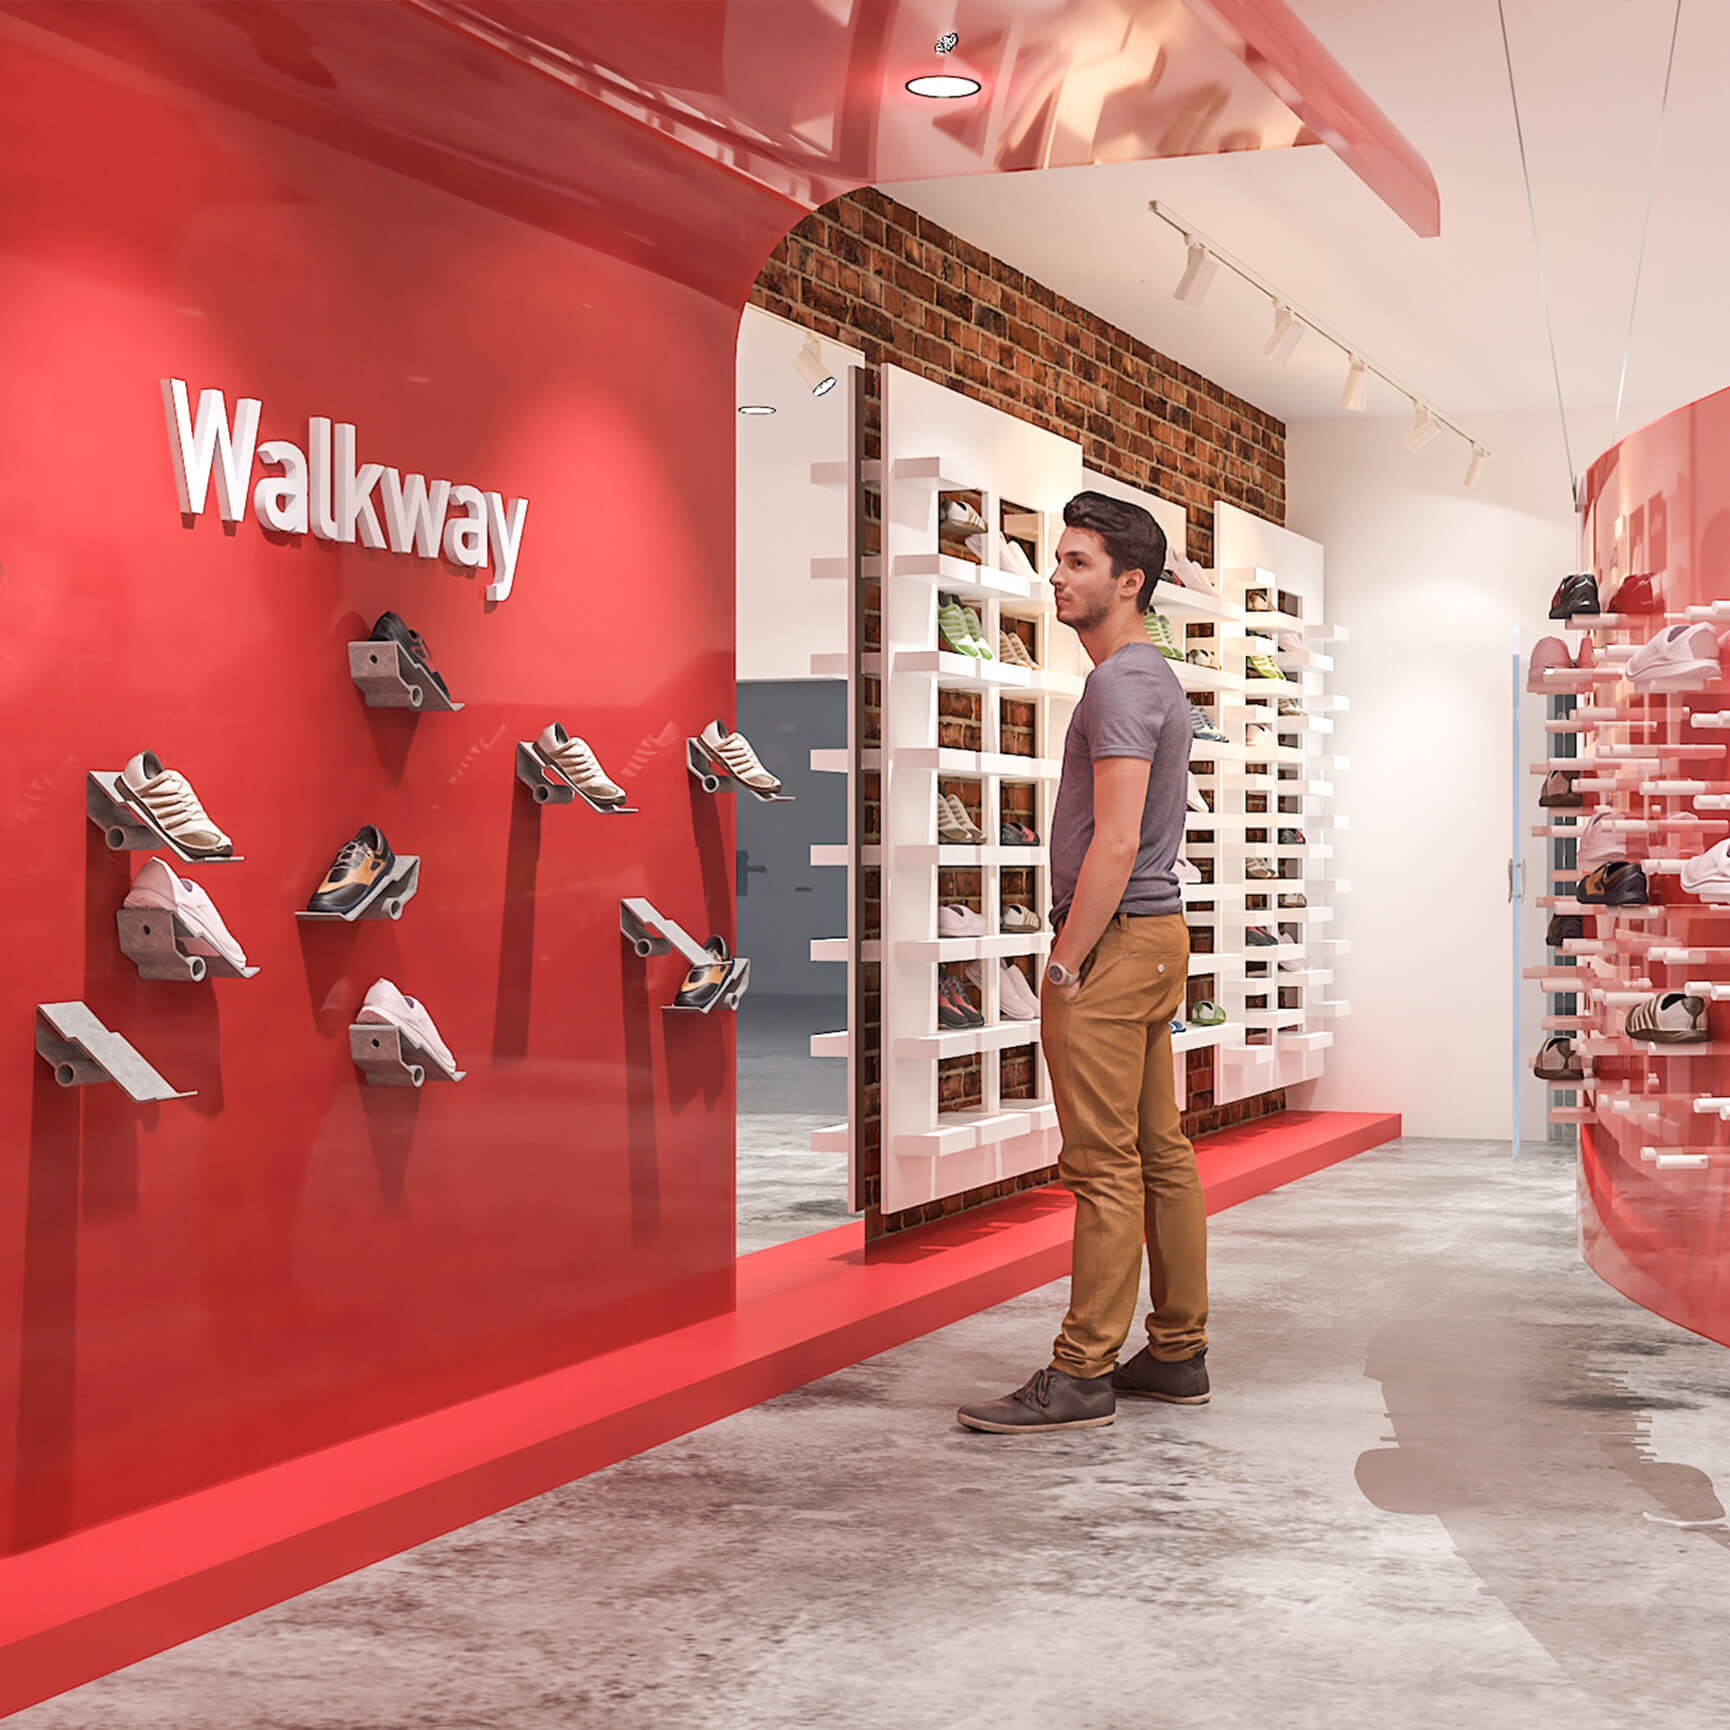
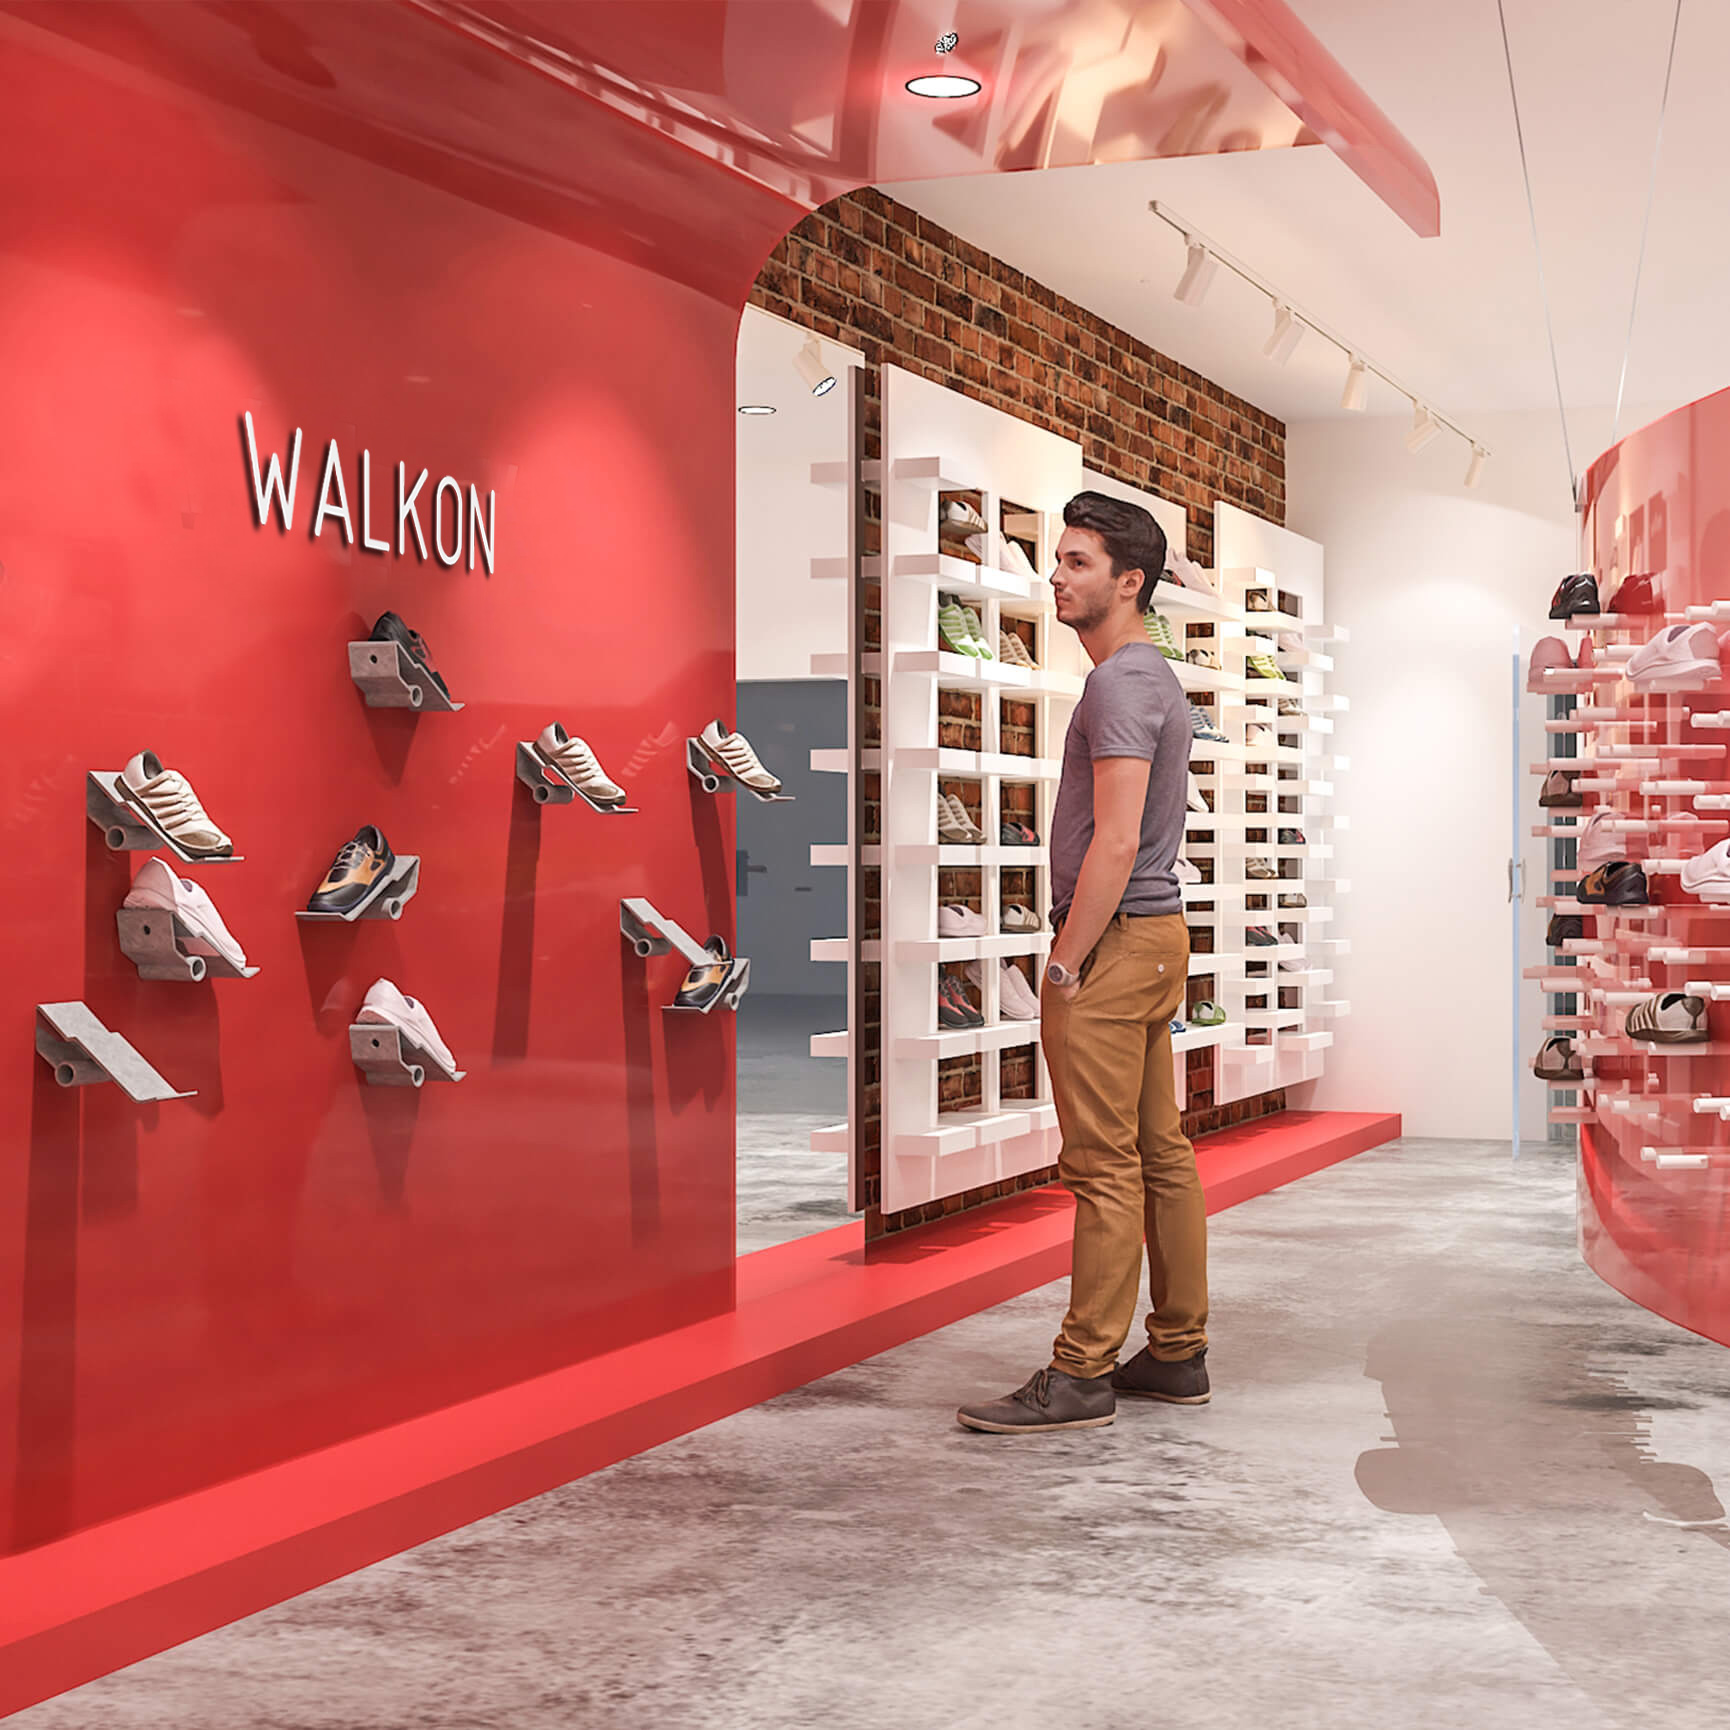
updated images

Changed region(s): [[0.0936, 0.1873, 0.3121, 0.3746]]

diff --git a/public/index.html b/public/index.html
@@ -2,14 +2,14 @@
 <html lang="en">
   <head>
     <meta charset="utf-8" />
-    <link rel="icon" href="%PUBLIC_URL%/favicon.ico" />
+    <link rel="icon" href="%PUBLIC_URL%/K_fevicon_32.jpg" />
     <meta name="viewport" content="width=device-width, initial-scale=1" />
     <meta name="theme-color" content="#000000" />
     <meta
       name="description"
       content="Web site created using create-react-app"
     />
-    <link rel="apple-touch-icon" href="%PUBLIC_URL%/logo192.png" />
+    <link rel="apple-touch-icon" href="%PUBLIC_URL%/K_fevicon_32.jpg" />
     <!--
       manifest.json provides metadata used when your web app is installed on a
       user's mobile device or desktop. See https://developers.google.com/web/fundamentals/web-app-manifest/
@@ -24,7 +24,7 @@
       work correctly both with client-side routing and a non-root public URL.
       Learn how to configure a non-root public URL by running `npm run build`.
     -->
-    <title>karankal.com/ best design studio in Bangalore</title>
+    <title>Karankal.com/ Best design studio in Bangalore</title>
   </head>
   <body>
     <noscript>You need to enable JavaScript to run this app.</noscript>

diff --git a/src/images/category/projects/walkway/images.js b/src/images/category/projects/walkway/images.js
@@ -24,7 +24,7 @@ export default {
     "Now, what's the idea behind the walkway?",
     "We all wear shoes outside right? Our time is spent commuting to work, or interacting with others, on the walkway. Many use this route, whether it is for boarding the metro train or dashing off to the office or tech park. Simply put, the walkway is a place where your & shoes feel at home & That's how the concept came about. Attachments area. "
   ],
-  projectName: 'Walkway',
+  projectName: 'Walkon',
   realProjectName: 'walkway',
   projectTypes: ['fixture', 'furniture', 'store design'],
   categoryTypes: ['retail']

diff --git a/src/components/home/StudioSlideshow.js b/src/components/home/StudioSlideshow.js
@@ -148,7 +148,7 @@ function StudioSlideshow() {
 						<div className='caption-background'></div>
 					</>
 				)}		
-				<span className='mouse-pointer'><img src={mouse} alt='mouse pointer' /></span>
+				{/*<span className='mouse-pointer'><img src={mouse} alt='mouse pointer' /></span>*/}
 			</Row>
 			{(width < 768) && (<div className='studio-slide-caption'>{slideCaptionContent(carouselContent, index)}</div>)}
 		</div>
